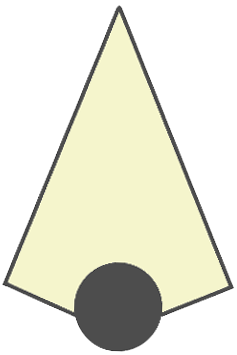
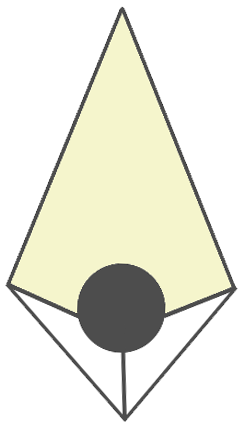
Added logic for picking and dropping the ball in range of 15
- changed the name of enemies to player2
- added sprites and states for holding the ball

Changed region(s): [[0.0, 0.0, 1.0, 1.0]]

diff --git a/main.py b/main.py
@@ -26,28 +26,44 @@ playerX = WIDTH * 0.9
 playerY = HEIGHT * 0.45
 playerX_change = 0
 playerY_change = 0
+# state for grabbing the ball or not
 global grabbable 
-grabbable = True
+grabbable = False
+holding = False
+pickup_range = 15
+
 grabSound = mixer.Sound("sounds/grab.wav")
 grabSound2 = mixer.Sound("sounds/drop.wav")
 
-def player():
+def player(x, y):
     # blit means draw
     screen.blit(playerImage, (playerX, playerY))
 
 
-# Enemy
-enemyImage = pygame.image.load('graphics/Enemy2.png')
-enemyImage = pygame.transform.scale(enemyImage, (40, 60)) 
+# player2
+player2Image = pygame.image.load('graphics/Player2.png')
+player2Image = pygame.transform.scale(player2Image, (40, 60)) 
 
-enemyX = WIDTH * 0.1
-enemyY = HEIGHT * 0.45
+player2X = WIDTH * 0.1
+player2Y = HEIGHT * 0.45
+player2X_change = 0
+player2Y_change = 0
 
-def enemy():
+def player2(x, y):
     # blit means draw
-    screen.blit(enemyImage, (enemyX, enemyY))
+    screen.blit(player2Image, (player2X, player2Y))
 
+# Ball
+ballImage = pygame.image.load('graphics/Ball.png')
+ballImage = pygame.transform.scale(ballImage, (40, 45)) 
+ballX = random.randint(30, (WIDTH * 0.9))
+ballY = random.randint(30, (HEIGHT* 0.9))
 
+def ball(x, y):
+    # blit means draw
+    screen.blit(ballImage, (ballX, ballY))
+    
+    
 # Game loop
 running = True
 while running:
@@ -77,17 +93,29 @@ while running:
                 # grab item
                 grabbable = not grabbable
                 if grabbable is True:
-                    grabSound.play()
                     # set ball's cordinates to the current cordinates of the player 
-                    ballX = playerX
-                    ballY = playerY
-                           
+                    print(ballX, playerX)
+                    # range of grabbing the ball: 10 by default 
+                    if (playerX - ballX < pickup_range) and (playerY - ballY < pickup_range):
+                        grabSound.play()
+                        #make ballImage transparent
+                        print("In range")
+                        holding = not holding
+                        # alpha_surf = pygame.Surface(ballImage.get_size(), pygame.SRCALPHA)
+                        # alpha_surf.fill((255, 255, 255, 0))
+                        # ballImage.blit(alpha_surf, (0, 0), special_flags=pygame.BLEND_RGBA_MULT)
                 # drop
                 if grabbable is False:
-                    grabSound2.play()
                     # set ball's cordinates to the current cordinates of the player 
-                    ballX = playerX
-                    ballY = playerY
+                    if holding is True:
+                        grabSound2.play()   
+                        ballX = playerX
+                        ballY = playerY
+                        holding = not holding
+                    # alpha_surf = pygame.Surface(ballImage.get_size(), pygame.SRCALPHA)
+                    # alpha_surf.fill((255, 255, 255, 255))
+                    # ballImage.blit(alpha_surf, (0, 0), special_flags=pygame.BLEND_RGBA_MULT)
+
                     
         if event.type == pygame.KEYUP:
             if event.key == pygame.K_LEFT or event.key == pygame.K_RIGHT:
@@ -100,17 +128,31 @@ while running:
     # player movement with inputs
     playerX += playerX_change
     playerY += playerY_change
+    player2X += player2X_change
+    player2Y += player2Y_change
+  
     
     # Boundary
     if playerX <= 0:
         playerX = 0
-    elif playerX >= WIDTH * 0.95:
-        playerX = WIDTH * 0.95 
+    elif playerX >= WIDTH * 0.92:
+        playerX = WIDTH * 0.92 
     if playerY <= 0:
         playerY = 0
     elif playerY >= HEIGHT * 0.92:
         playerY = HEIGHT * 0.92
         
-    player()
-    enemy()
+    # Boundary check for player2
+    if player2X <= 0:
+            player2X = 0
+    elif player2X >= WIDTH * 0.92:
+        player2X = WIDTH * 0.92 
+    if player2Y <= 0:
+        player2Y = 0
+    elif player2Y >= HEIGHT * 0.92:
+        player2Y = HEIGHT * 0.92
+        
+    player(playerX, playerY)
+    player2(player2X, player2Y)
+    ball(ballX, ballY)
     pygame.display.update()
